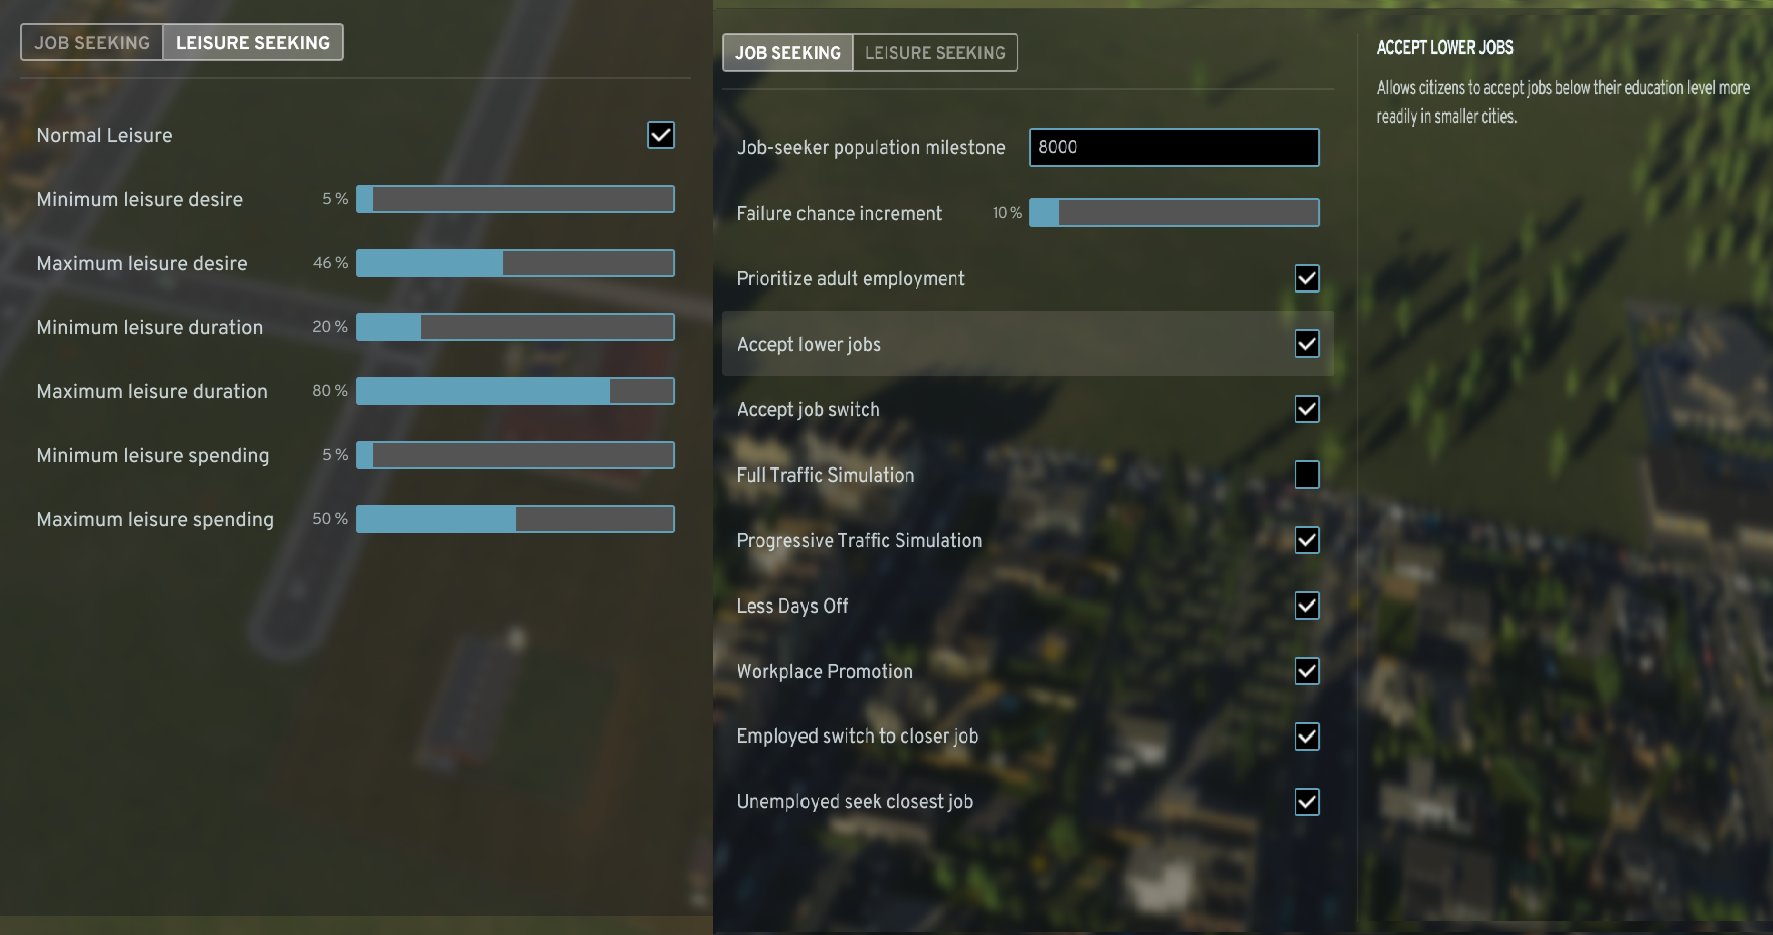
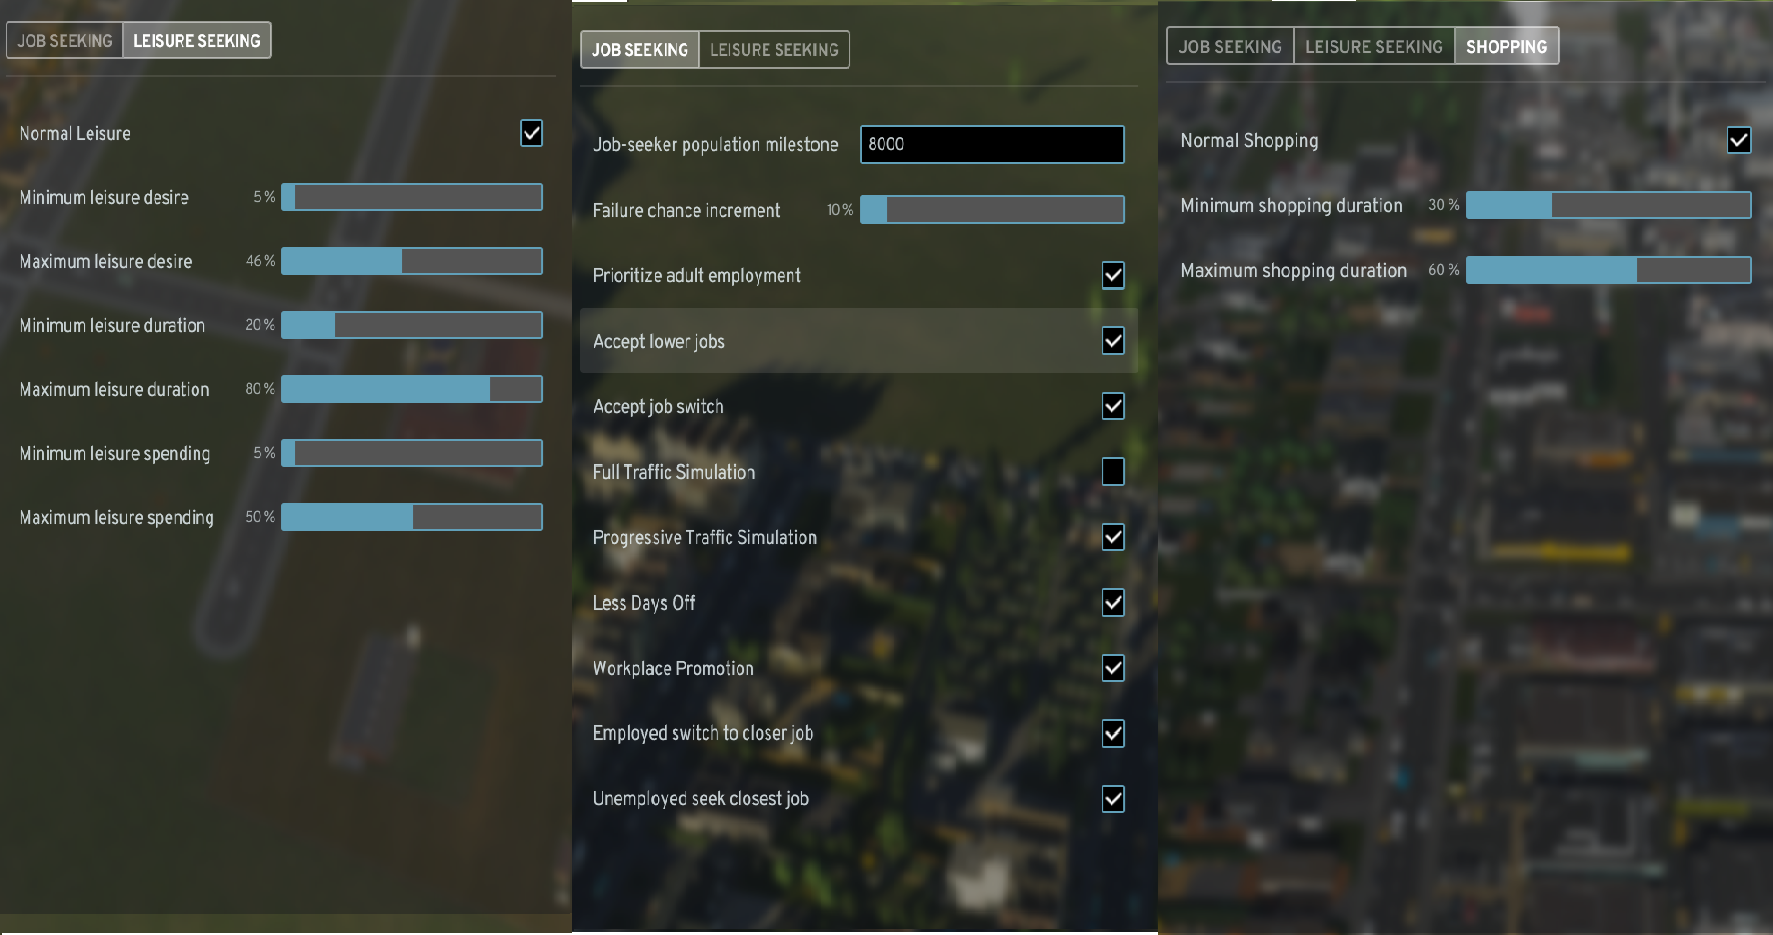
Added shopping countdown indicator
Sort leisre, shop tab list by name
Fixed possible crash in tab list
Fixed missing startup of travelpurpsesystem
Impl cleanup for per-save citizens stuck in shops
Fixed wrong shopping init()

diff --git a/BitulaMod/src/mods/shoppers-tab/ShoppersTab.tsx b/BitulaMod/src/mods/shoppers-tab/ShoppersTab.tsx
@@ -1,6 +1,6 @@
 import { selectedInfo } from "cs2/bindings";
 import { getModule } from "cs2/modding";
-import { useEffect, useState } from "react";
+import { useEffect, useState, useRef } from "react";
 import { createPortal } from "react-dom";
 import { bindValue, useValue } from "cs2/api";
 import { setShoppersTabSelected, subscribeShoppersTab, isShoppersTabSelected, selectCustomTab } from "mods/common/state";
@@ -43,6 +43,7 @@ type Shopper = {
     wealth: Wealth;
     age: Age;
     family: Family;
+    shopperHours: string;
 };
 
 const shoppers$ = bindValue<Shopper[]>(
@@ -107,6 +108,13 @@ export const ACTIONS_SECTION = selectedInfo.SectionType.Actions;
 
 const ShopperRow = ({ shopper }: { shopper: Shopper }) => {
     const name = useLocalizedName(shopper.name);
+    const shopperHoursRef = useRef<string>("");
+
+    if (shopper.shopperHours) {
+        shopperHoursRef.current = shopper.shopperHours;
+    }
+
+    const shopperHours = shopper.shopperHours || shopperHoursRef.current;
     
 
     return (
@@ -142,6 +150,12 @@ const ShopperRow = ({ shopper }: { shopper: Shopper }) => {
                 src={familyIcons[shopper.family]}
                 className="shopper-family-icon"
             />
+
+            {shopperHours && (
+                <span className="shopper-leisure-hours">
+                    [{shopperHours}]
+                </span>
+            )}
         </div>
     );
 };

diff --git a/SmallCityShoppingUISystem.cs b/SmallCityShoppingUISystem.cs
@@ -1,4 +1,5 @@
 using BitulaMod.Components;
+using BitulaMod.SmallCity;
 using Colossal.Entities;
 using Colossal.UI.Binding;
 using Game;
@@ -17,6 +18,7 @@ using System.Linq;
 using Unity.Collections;
 using Unity.Entities;
 using Unity.Mathematics;
+using UnityEngine;
 
 namespace BitulaMod
 {
@@ -61,6 +63,7 @@ namespace BitulaMod
             public CitizenAgeKey Age;
             public HouseholdWealthKey Wealth;
             public byte Family;
+            public string ShopperHours;
             public void RemoveDelay() {
                 delay = null;
             }
@@ -84,10 +87,12 @@ namespace BitulaMod
         private RawValueBinding m_ShoppersBinding;
         private NameSystem m_NameSystem;
         private EntityQuery m_ShoppingCitizenQuery;
+        private SmallCity<SCShopping> m_SmallCityShopping;
         private ComponentLookup<CurrentBuilding> m_CurrentBuildings;
         private ComponentLookup<Target> m_Targets;
         private ComponentLookup<PropertyRenter> m_PropertyRenters;
         private ComponentLookup<ResourceBuyer> m_Shopping;
+        private SimulationSystem m_SimulationSystem;
         private EntityQuery m_HappinessParameterQuery;
         private readonly Dictionary<Entity, Entity> m_ShoppingVisitBuilding = new();
         private Entity m_LastSelectedEntity = Entity.Null;
@@ -101,6 +106,7 @@ namespace BitulaMod
 
             m_NameSystem = World.GetOrCreateSystemManaged<NameSystem>();
             m_SelectedInfoUISystem = World.GetOrCreateSystemManaged<SelectedInfoUISystem>();
+            m_SimulationSystem = World.GetOrCreateSystemManaged<SimulationSystem>();
             m_ShoppingCitizenQuery = GetEntityQuery( ComponentType.ReadOnly<Citizen>());
             m_CurrentBuildings = GetComponentLookup<CurrentBuilding>(true);
             m_Targets = GetComponentLookup<Target>(true);
@@ -108,6 +114,7 @@ namespace BitulaMod
             m_ShoppersBinding = new RawValueBinding("BitulaMod", "shoppers", BindShoppers);
             m_Shopping = GetComponentLookup<ResourceBuyer>(true);
             m_HappinessParameterQuery = GetEntityQuery(ComponentType.ReadOnly<CitizenHappinessParameterData>());
+
 
             AddBinding(m_ShoppersBinding);
             RequireForUpdate(m_HappinessParameterQuery);
@@ -136,6 +143,7 @@ namespace BitulaMod
             m_CurrentBuildings.Update(ref state);
             m_Targets.Update(ref state);
             m_Shopping.Update(this);
+            m_SmallCityShopping = SmallCity<SCShopping>.Create(ref base.CheckedStateRef);
             AddShoppers(selectedEntity);
             m_ShoppersBinding.Update();
         }
@@ -144,6 +152,8 @@ namespace BitulaMod
             DateTime now = DateTime.UtcNow;
 
             m_Shoppers.Where(x => {
+                if (!EntityManager.Exists(x.Key) || !EntityManager.HasComponent<Citizen>(x.Key) || !EntityManager.HasComponent<HouseholdMember>(x.Key))
+                    return true;
                 bool valid = isValid(x.Key, selectedEntity);
 
                if (valid) {
@@ -165,9 +175,11 @@ namespace BitulaMod
                 }
             }
             ClearShoppers(selectedEntity);
-            foreach (ShopperInfo shopper in m_Shoppers.Values) {
-                Entity citizen = shopper.Shopper;                
-                
+            foreach (ShopperInfo shopper in m_Shoppers.Values.OrderBy(s => m_NameSystem.GetRenderedLabelName(s.Shopper), StringComparer.CurrentCultureIgnoreCase)) {
+                Entity citizen = shopper.Shopper;
+                m_SmallCityShopping.Get().init(citizen, SmallCityJobsPhase.Shopping);
+                uint currentFrame = m_SimulationSystem.frameIndex;
+
                 bool hasTravelPurpose = EntityManager.TryGetComponent<TravelPurpose>(citizen, out TravelPurpose travelPurpose);
                 
 
@@ -204,15 +216,10 @@ namespace BitulaMod
                 } else {
                     continue;
                 }
-                FillUIData(shopper);
-                shoppers.Add(shopper);
-            }
 
-            
-            shoppers.Sort((a, b) => a.Shopper.Index.CompareTo(b.Shopper.Index));
-            foreach (ShopperInfo shopper in shoppers) {
-                m_Shoppers[shopper.Shopper] = shopper;
-            }
+                FillUIData(shopper, currentFrame);
+                shoppers.Add(shopper);
+            }            
         }
 
         private bool isValid(Entity citizen, Entity selectedEntity) {
@@ -398,22 +405,43 @@ namespace BitulaMod
             return false;
         }
 
-        private void FillUIData(ShopperInfo shopper) {
+        private void FillUIData(ShopperInfo shopper, uint currentFrame) {
+
             Entity citizen = shopper.Shopper;
             HouseholdMember householdMember = EntityManager.GetComponentData<HouseholdMember>(citizen);
-            bool hasLeisure = EntityManager.TryGetComponent<Leisure>(citizen, out Leisure leisure);
+            bool hasLeisure = EntityManager.TryGetComponent<Leisure>(citizen, out Leisure leisure);            
             shopper.Wealth = CitizenUIUtils.GetHouseholdWealth(EntityManager, householdMember.m_Household,
                 m_HappinessParameterQuery.GetSingleton<CitizenHappinessParameterData>());
             shopper.Age = CitizenUIUtils.GetAge(EntityManager, citizen);
             if (EntityManager.TryGetBuffer<HouseholdCitizen>(householdMember.m_Household, true, out var members)) {
                 shopper.Family = (byte)math.clamp(members.Length, 1, 5);
             }
+            bool hasShopping = EntityManager.HasComponent<CmpShoppingStart>(citizen);
+            if (m_SmallCityShopping.Get().UseSmallCityBehavior() && hasShopping) {
+                Citizen citizenData = EntityManager.GetComponentData<Citizen>(citizen);
+                uint lastPossibleFrame = m_SmallCityShopping.Get().GetLasePossibleFrame(citizenData);
+                uint endFrame = m_SmallCityShopping.Get().ShoppingEndFrame(citizen, lastPossibleFrame);
+
+                long remainingFrames = Math.Max(0, (long)endFrame - currentFrame);
+
+                if (remainingFrames > 0) {
+                    float remainingHours = remainingFrames * 24f / 262144f;
+
+                    int hours = (int)remainingHours;
+                    int minutes = (int)((remainingHours - hours) * 60f);
+
+                    shopper.ShopperHours = $"{hours:00}:{minutes:00}";
+                } else {
+                    shopper.ShopperHours = "00:00";
+                }
+            }
         }
 
         private void BindShoppers(IJsonWriter writer) {
             writer.ArrayBegin((uint)m_Shoppers.Count);
 
-            foreach (ShopperInfo shopper in m_Shoppers.Values) {
+            foreach (ShopperInfo shopper in m_Shoppers.Values.OrderBy(s => m_NameSystem.GetRenderedLabelName(s.Shopper),
+                StringComparer.CurrentCultureIgnoreCase).ThenBy(s => s.Shopper.Index)) {
                 writer.TypeBegin("Shopper");
 
                 writer.PropertyName("entity");
@@ -429,6 +457,9 @@ namespace BitulaMod
 
                 writer.PropertyName("name");
                 m_NameSystem.BindName(writer, shopper.Shopper);
+
+                writer.PropertyName("shopperHours");
+                writer.Write(shopper.ShopperHours ?? "");
 
                 writer.PropertyName("status");
                 writer.Write((int)shopper.Status);

diff --git a/SmallCityLeisureUISystem.cs b/SmallCityLeisureUISystem.cs
@@ -199,6 +199,8 @@ namespace BitulaMod
             DateTime now = DateTime.UtcNow;
 
             m_Customers.Where(x => {
+                if (!EntityManager.Exists(x.Key) || !EntityManager.HasComponent<Citizen>(x.Key) || !EntityManager.HasComponent<HouseholdMember>(x.Key))
+                    return true;
                 bool valid = isValid(x.Key, selectedEntity);
 
                if (valid) {
@@ -224,7 +226,8 @@ namespace BitulaMod
                 }
             }
             ClearCustomers(selectedEntity);
-            foreach (CustomerInfo customer in m_Customers.Values) {
+            foreach (CustomerInfo customer in m_Customers.Values.OrderBy(s => m_NameSystem.GetRenderedLabelName(s.Customer),
+                StringComparer.CurrentCultureIgnoreCase)) {
                 Entity citizen = customer.Customer;                
                 bool hasLeisure = EntityManager.TryGetComponent<Leisure>(citizen, out Leisure leisure);
                 bool hasTravelPurpose = EntityManager.TryGetComponent<TravelPurpose>(citizen, out TravelPurpose travelPurpose);
@@ -267,12 +270,6 @@ namespace BitulaMod
                 FillUIData(customer, currentFrame, ref scj);
 
                 customers.Add(customer);
-            }
-
-
-            customers.Sort((a, b) => a.Customer.Index.CompareTo(b.Customer.Index));
-            foreach (CustomerInfo customer in customers) {
-                m_Customers[customer.Customer] = customer;
             }
         }
 
@@ -579,7 +576,8 @@ namespace BitulaMod
         private void BindCustomers(IJsonWriter writer) {
             writer.ArrayBegin((uint)m_Customers.Count);
 
-            foreach (CustomerInfo customer in m_Customers.Values) {
+            foreach (CustomerInfo customer in m_Customers.Values.OrderBy(s => m_NameSystem.GetRenderedLabelName(s.Customer),
+                StringComparer.CurrentCultureIgnoreCase).ThenBy(s => s.Customer.Index)) {
                 writer.TypeBegin("Customer");
 
                 writer.PropertyName("entity");

diff --git a/Override/CitizenTravelPurposeSystem.cs b/Override/CitizenTravelPurposeSystem.cs
@@ -256,8 +256,7 @@ namespace BitulaMod
 					else if (flag2)
 					{
 						m_SmallCityShopping.Get().init(entity, SmallCityJobsPhase.Shopping);
-                        if (travelPurpose.m_Purpose == Purpose.Shopping && m_SmallCityShopping.Get().UseSmallCityBehavior() &&
-							!m_SmallCityShopping.Get().IsEndOfShopping(entity)) {
+                        if (travelPurpose.m_Purpose == Purpose.Shopping && !m_SmallCityShopping.Get().IsEndOfShopping(entity)) {
                             continue;
                         }
                         this.m_CommandBuffer.SetComponentEnabled<Arrived>(unfilteredChunkIndex, entity, false);
@@ -383,8 +382,17 @@ namespace BitulaMod
 							}
 							break;
 						}
-					}
-				}
+					} else if (!flag2 && travelPurpose.m_Purpose == Purpose.Shopping) {
+                        m_SmallCityShopping.Get().init(entity, SmallCityJobsPhase.Shopping);
+
+                        if (m_SmallCityShopping.Get().UseSmallCityBehavior() &&
+                            !m_SmallCityShopping.Get().HasShoppingStart(entity)) {
+
+                            m_CommandBuffer.SetComponentEnabled<Arrived>(
+                                unfilteredChunkIndex, entity, true);
+                        }
+                    }
+                }
 			}
 
 			// Token: 0x060068F3 RID: 26867 RVA: 0x00385C64 File Offset: 0x00383E64

diff --git a/SmallCity/SCShopping.cs b/SmallCity/SCShopping.cs
@@ -44,6 +44,10 @@ namespace BitulaMod.SmallCity {
             return m_Common.UseSmallCityBehavior();
         }
 
+        public bool HasShoppingStart(Entity citizen) {
+            return m_ShoppingStarts.HasComponent(citizen);
+        }
+
         public void SetShoppingStart(Entity citizen, uint startFrame) {
             CmpShoppingStart component = new CmpShoppingStart {
                 m_StartFrame = startFrame,
@@ -83,14 +87,23 @@ namespace BitulaMod.SmallCity {
             return ShoppingEndFrame(citizenData, citizen, lastPossibleFrame, startFrame);
         }
 
+        public uint GetLasePossibleFrame(Citizen citizen) {
+            return m_Common.GetLastPossibleFrame(citizen);
+        }
+
         public bool IsEndOfShopping(Entity citizen) {
             if (!m_Common.UseSmallCityBehavior() || !m_NormalShopping)
-                return false;
+                return true;
+
+            if (!m_ShoppingStarts.HasComponent(citizen))
+                return true;
+
             Citizen citizenData = m_Common.GetCitizenData(citizen);
             uint endFrame = ShoppingEndFrame(citizen, m_Common.GetLastPossibleFrame(citizenData));
 
             if (endFrame == 0)
                 return true;
+
             return m_Common.GetSimulationFrame() >= endFrame;
         }
     }

diff --git a/Mod.cs b/Mod.cs
@@ -62,6 +62,7 @@ namespace BitulaMod
             World.DefaultGameObjectInjectionWorld.GetOrCreateSystemManaged<Game.Simulation.WorkerSystem>().Enabled = false;
             World.DefaultGameObjectInjectionWorld.GetOrCreateSystemManaged<Game.Simulation.CitizenBehaviorSystem>().Enabled = false;
             World.DefaultGameObjectInjectionWorld.GetOrCreateSystemManaged<Game.Simulation.LeisureSystem>().Enabled = false;
+            World.DefaultGameObjectInjectionWorld.GetOrCreateSystemManaged<Game.Simulation.CitizenTravelPurposeSystem>().Enabled = false;
 
             updateSystem.UpdateAt<CitizenFindJobSystem>(SystemUpdatePhase.GameSimulation);
             updateSystem.UpdateAt<FindJobSystem>(SystemUpdatePhase.GameSimulation);
@@ -69,6 +70,7 @@ namespace BitulaMod
             updateSystem.UpdateAt<WorkerSystem>(SystemUpdatePhase.GameSimulation);
             updateSystem.UpdateAt<CitizenBehaviorSystem>(SystemUpdatePhase.GameSimulation);
             updateSystem.UpdateAt<LeisureSystem>(SystemUpdatePhase.GameSimulation);
+            updateSystem.UpdateAt<CitizenTravelPurposeSystem>(SystemUpdatePhase.GameSimulation);
 
 
         }

diff --git a/Override/CitizenBehaviorSystem.cs b/Override/CitizenBehaviorSystem.cs
@@ -669,7 +669,7 @@ namespace BitulaMod
 			// Token: 0x0600689C RID: 26780 RVA: 0x0037EEB4 File Offset: 0x0037D0B4
 			private void GoShopping(int chunkIndex, Entity citizen, bool isCarKeeper, Entity household, HouseholdNeed need, float3 position)
 			{
-                m_SmallCityLeisure.Get().init(citizen, SmallCityJobsPhase.StartShopping);
+                m_SmallCityShopping.Get().init(citizen, SmallCityJobsPhase.StartShopping);
                 if (!isCarKeeper)
 				{
 					this.m_CarReserverQueue.Enqueue(citizen);
